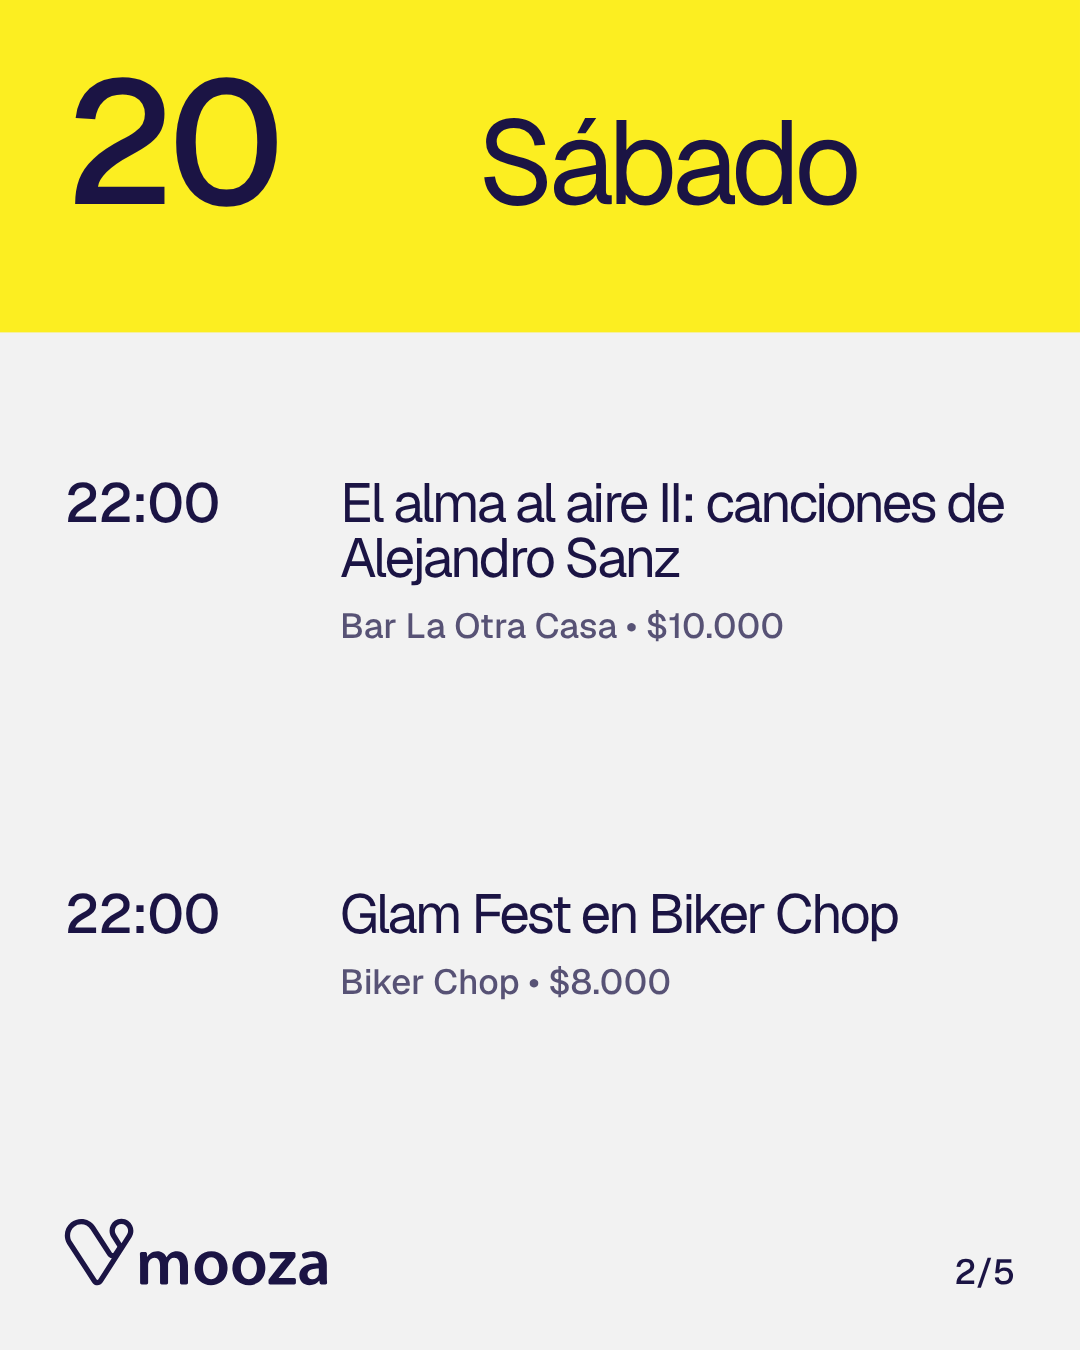
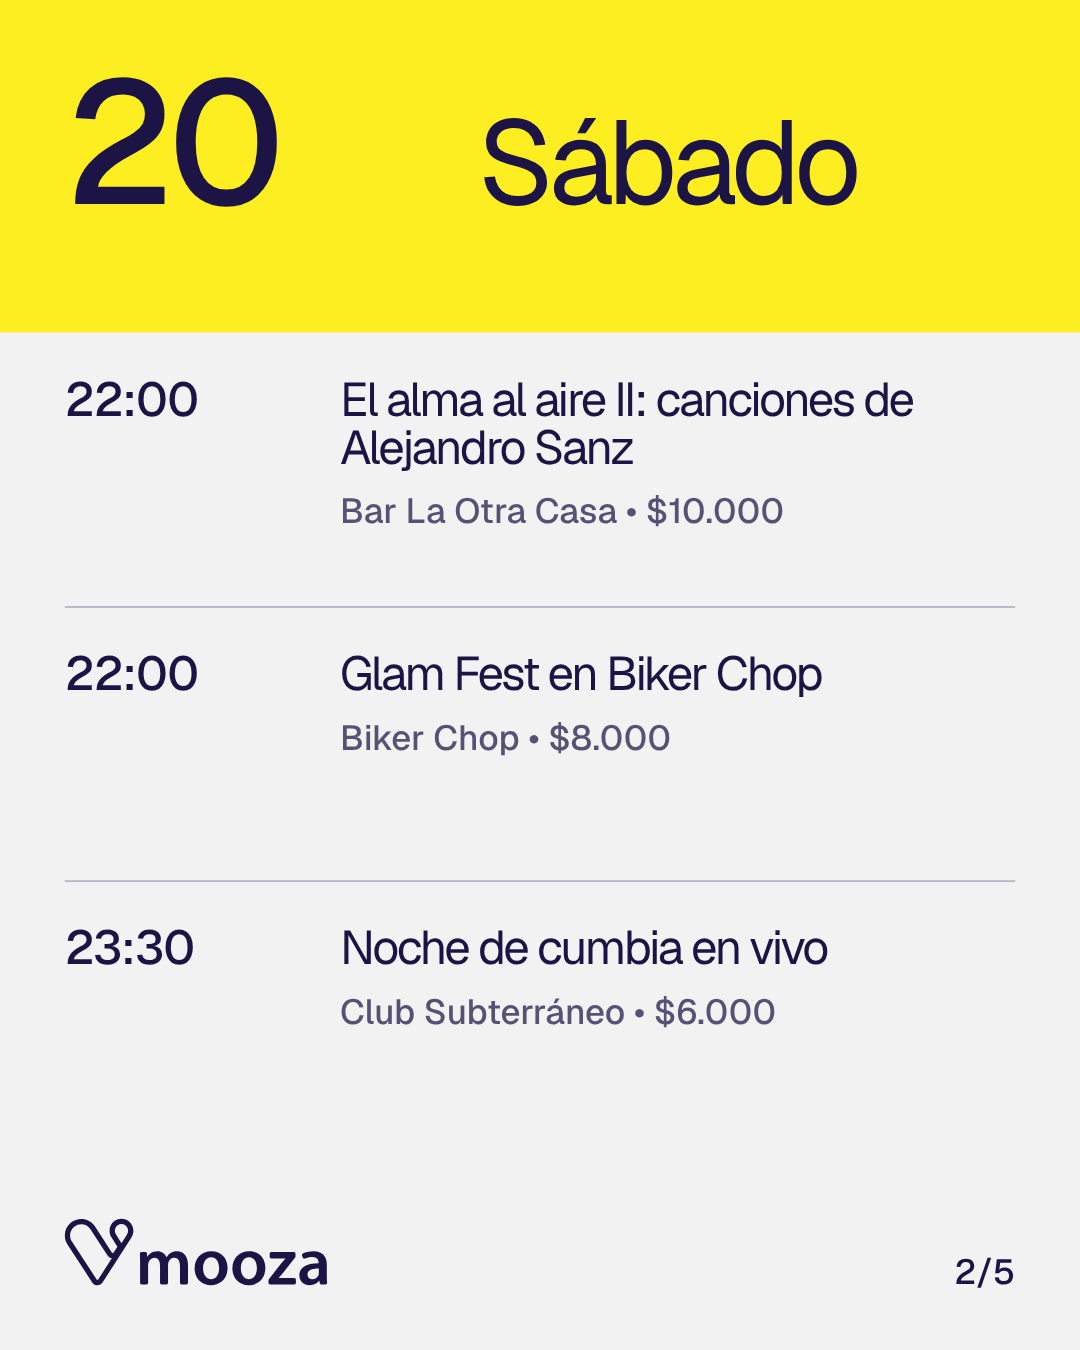
Agenda con hasta tres eventos: letra un paso más chica, línea fina entre eventos; plantillas regeneradas
Claude-Session: https://claude.ai/code/session_01FatczGDNUrWcTXBDB5f52U

diff --git a/components/grid/poster.js b/components/grid/poster.js
@@ -35,7 +35,8 @@
     evento:{nombre:'Cuarteto de<br>jazz en vivo',meta:'Teatro del Parque<br>Vie 30 • 21:00 • desde $8.000'},
     agenda:{dia:'Sábado',n:20,pag:'2/5',eventos:[
       {h:'22:00',t:'El alma al aire II: canciones de Alejandro Sanz',v:'Bar La Otra Casa',p:'$10.000'},
-      {h:'22:00',t:'Glam Fest en Biker Chop',v:'Biker Chop',p:'$8.000'}
+      {h:'22:00',t:'Glam Fest en Biker Chop',v:'Biker Chop',p:'$8.000'},
+      {h:'23:30',t:'Noche de cumbia en vivo',v:'Club Subterráneo',p:'$6.000'}
     ]},
     story:{categoria:'Música',titulo:'Cuarteto de<br>jazz en vivo',meta:'Teatro del Parque<br>Viernes 30, 21:00<br>Desde $8.000'}
   };
@@ -287,13 +288,18 @@
     return grid(n,h+pie(n,d.rango));
   }
 
-  /* agenda: arriba, sobre el color, el día. Abajo, sobre gris, hasta dos eventos con una fila de aire entre ellos. */
+  /* agenda: arriba, sobre el color, el día. Abajo, sobre gris, hasta tres eventos. */
   function agenda(d,n,f){
     var a=d.agenda,h=zonaA(2,campo(d,'amarillo'),trama(d,'br','amarillo'))+fondo(d,f,[0,0,100,yZona(d,f,n,2,true)],'amarillo')+cell(1,7,1,2,'mz-cabeza'+tinta(d,'amarillo'),'<span class="mz-t-grande mz-num">'+a.n+'</span><span class="mz-t-titular">'+a.dia+'</span>');
-    a.eventos.slice(0,2).forEach(function(e,i){
-      var r=4+i*3;
-      h+=cell(1,2,r,r,'mz-hora'+(e.f?' mz-hora-on':''),e.h?'<span>'+e.h+'</span>':'')+
-         cell(3,7,r,r+1,'mz-evento-t','<span class="mz-t-texto">'+e.t+'</span><span class="mz-t-dato">'+e.v+(e.p?' • '+e.p:'')+'</span>');
+    /* dos eventos: filas 4 y 7, con una fila de aire entre ellos.
+       Tres eventos: parten en la fila 3, cada uno con una línea fina arriba (salvo el primero, que ya tiene el borde de la zona)
+       y el mismo respiro bajo la línea. Se reparten hasta el pie: en A3 sobra una fila entre ellos. */
+    var ev=a.eventos.slice(0,3),tres=ev.length===3,paso=tres?2+Math.max(0,Math.floor((n-9)/2)):3,ini=tres?3:4;
+    ev.forEach(function(e,i){
+      var r=ini+i*paso,k=tres?' mz-e3':'';
+      if(tres&&i)h+=cell(1,7,r,r,'mz-sep');
+      h+=cell(1,2,r,r,'mz-hora'+k+(e.f?' mz-hora-on':''),e.h?'<span>'+e.h+'</span>':'')+
+         cell(3,7,r,r+1,'mz-evento-t'+k,'<span class="mz-t-texto">'+e.t+'</span><span class="mz-t-dato">'+e.v+(e.p?' • '+e.p:'')+'</span>');
     });
     return grid(n,h+pie(n,a.pag||''));
   }

diff --git a/components/grid/grid.css b/components/grid/grid.css
@@ -84,6 +84,9 @@
 .mz-cabeza .mz-num{flex:none;width:calc((var(--mz-col)*3 + var(--mz-g)*3)*1cqw)}
 .mz-hora{font-size:var(--mz-t-texto);font-weight:var(--mz-peso-dato);line-height:1;font-variant-numeric:tabular-nums;letter-spacing:-.02em;align-self:start}
 /* la hora destacada lleva una línea naranja bajo el texto: queda dentro de su celda y alineada al margen */
+.mz-d-agenda .mz-hora,.mz-d-agenda .mz-evento-t .mz-t-texto{font-size:calc(var(--mz-col)*.38*1cqw)}  /* la agenda lleva hasta tres eventos: letra un paso más chica */
+.mz-e3{padding-top:calc(var(--mz-col)*.3*1cqw)}
+.mz-sep{align-self:start;height:0;margin-top:calc(var(--mz-g)*-.5cqw);border-top:1px solid var(--mz-linea-clara)}
 .mz-hora span{display:inline-block}
 .mz-hora-on span{padding-bottom:.2em;border-bottom:.2em solid var(--mz-naranja)}
 

diff --git a/readme.md b/readme.md
@@ -112,7 +112,7 @@ Una idea por cartel y mucho espacio libre. Cada cartel se parte en dos zonas, un
 | número | Arriba, sobre gris, el rango de la semana, enorme. Abajo, sobre el color, qué es | 4:5, A3, 1:1, 16:9 |
 | foto | Arriba, la foto. Abajo, sobre gris, el nombre del evento y sus datos | 4:5, A3, 1:1, 16:9 |
 | semana | Arriba, sobre el color, el titular. Abajo, sobre gris, siete días con el destacado en acento | 4:5, A3, 1:1 |
-| agenda | Arriba, sobre el color, el día. Abajo, sobre gris, hasta dos eventos. Para el carrusel semanal | 4:5, A3 |
+| agenda | Arriba, sobre el color, el día. Abajo, sobre gris, hasta tres eventos, con una línea fina entre ellos. Para el carrusel semanal | 4:5, A3 |
 | story | Arriba, la foto. Abajo, sobre gris, categoría, nombre y datos | 9:16 |
 
 Filas por formato: 9 en 4:5, 11 en A3, 8 en 1:1, 4 en 16:9 y 16 en 9:16. En 16:9 la mitad izquierda es gris y la derecha lleva el azul o la foto; la columna 4 queda sobre el centro y va vacía.
